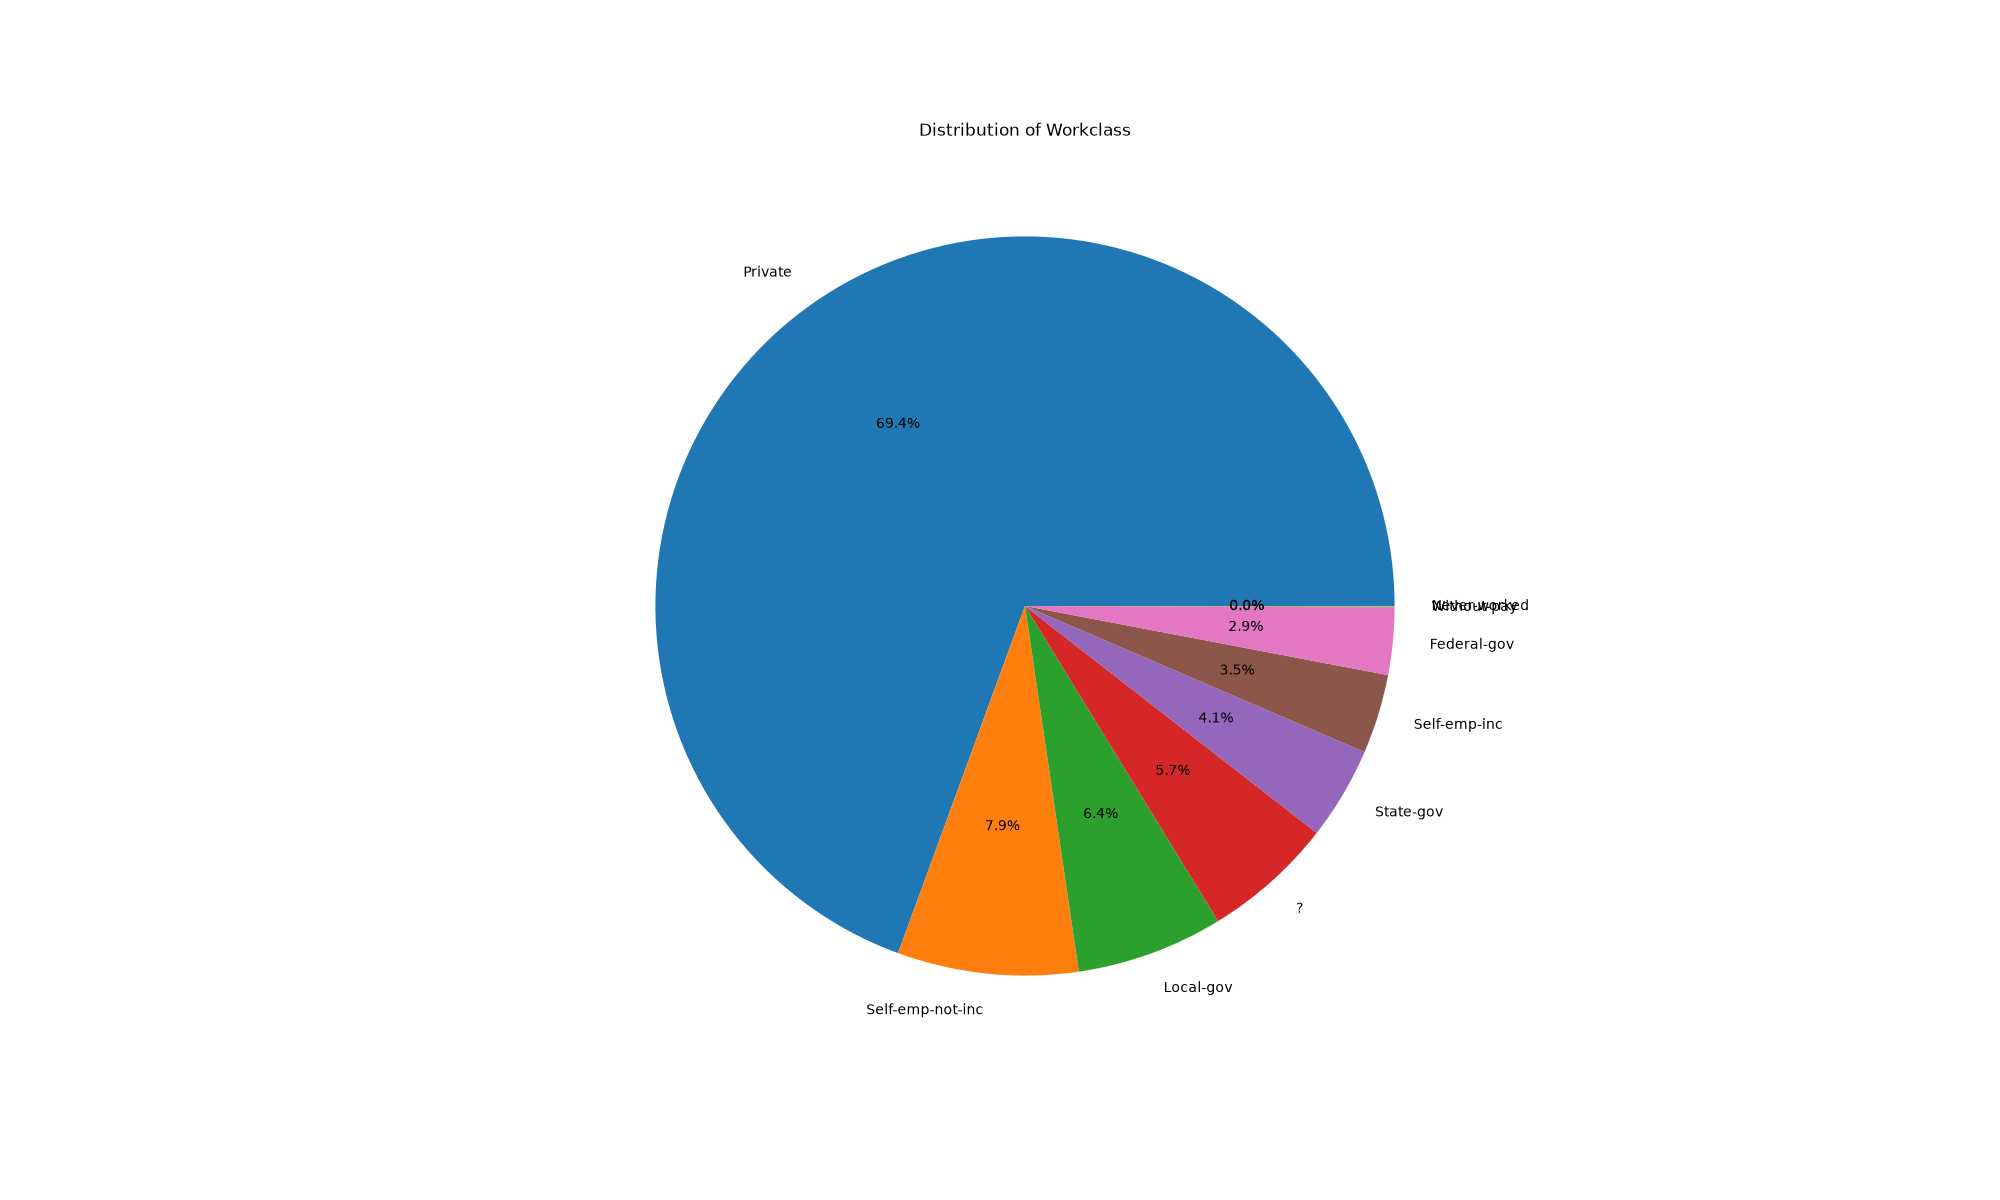
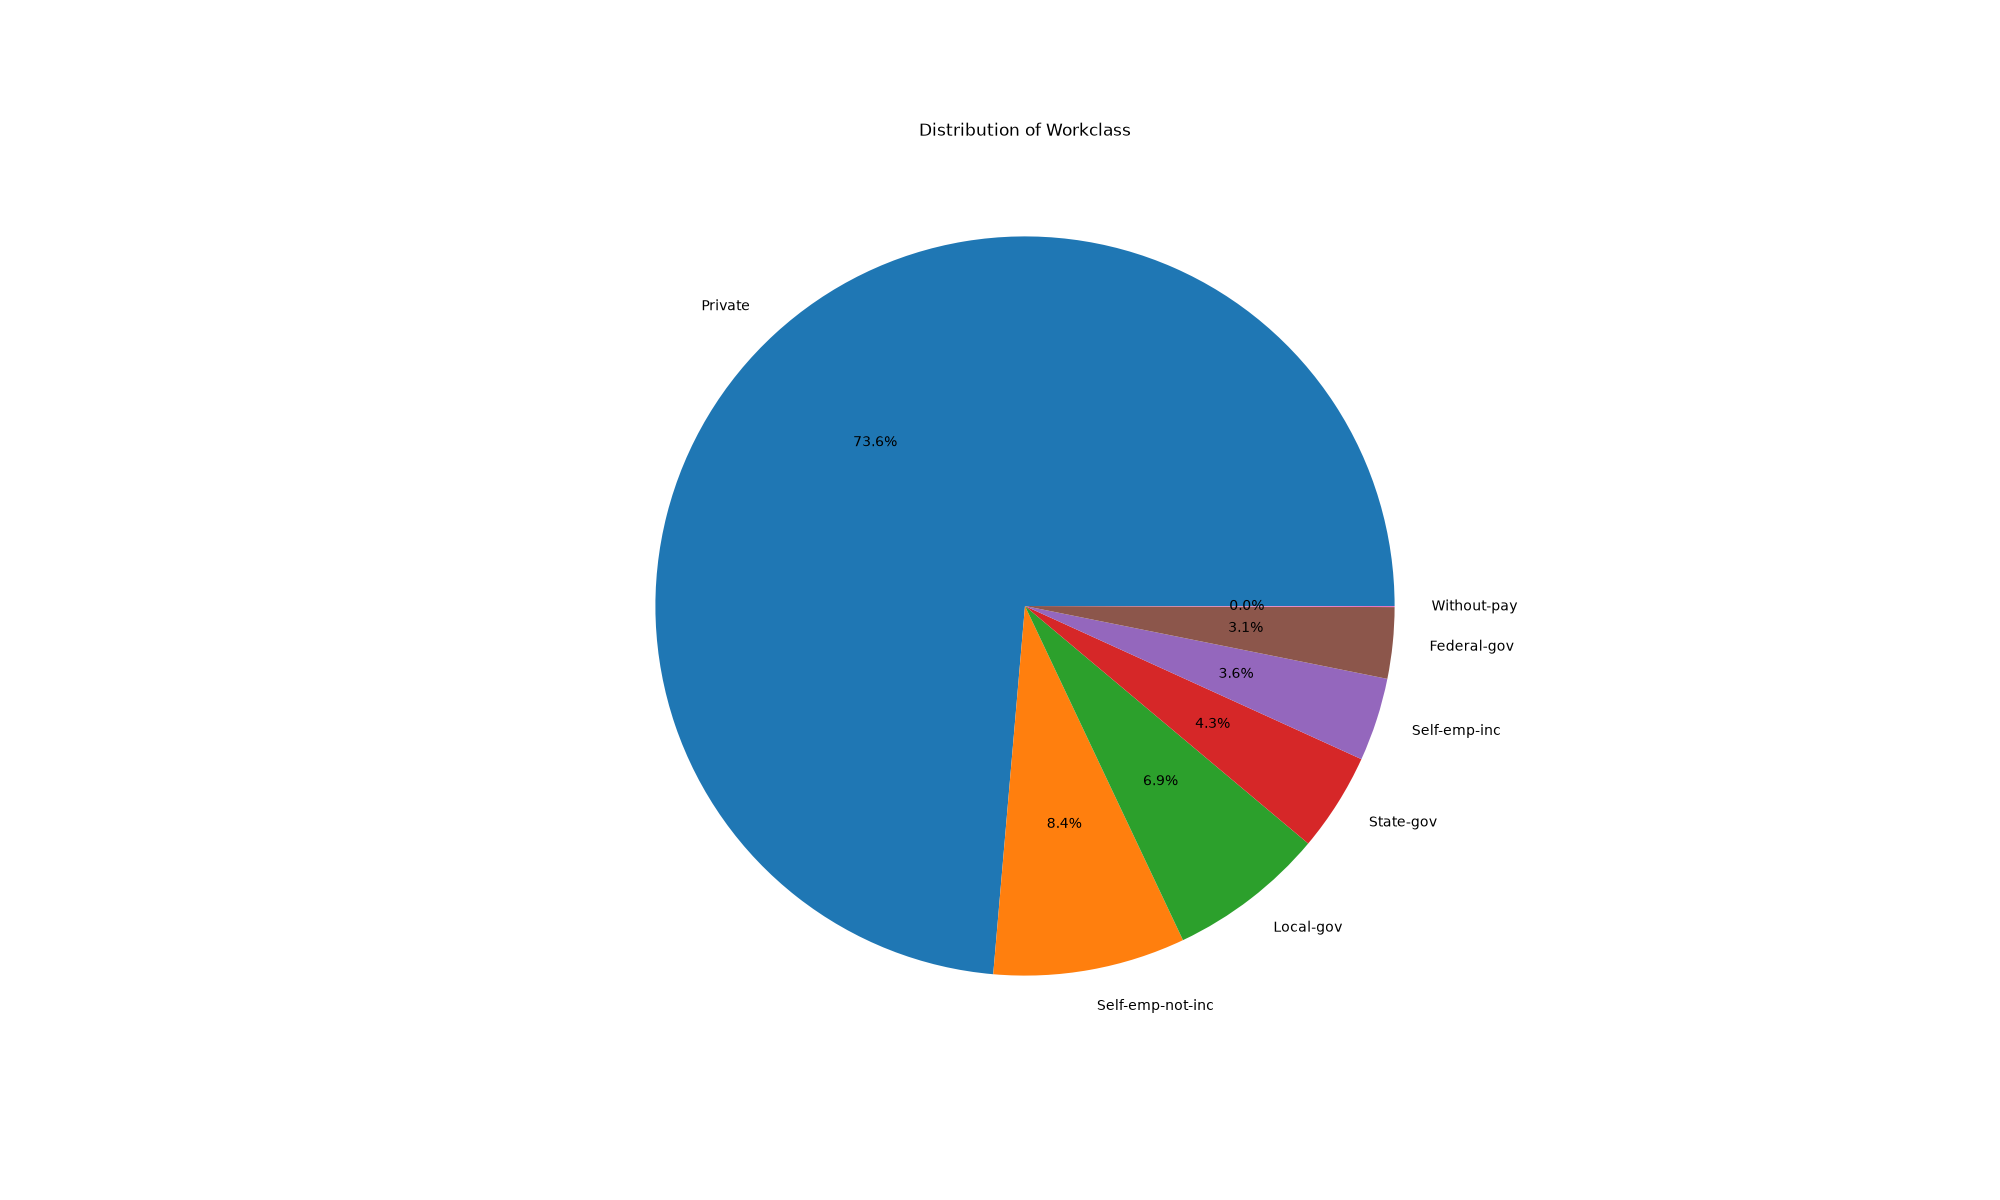
cleaning data

diff --git a/python scripts/adult.py b/python scripts/adult.py
@@ -1,7 +1,9 @@
 import pandas as pd
 import matplotlib.pyplot as plt
+import seaborn as sns
+import pandas as np
 #loading the data
-df=pd.read_csv(r'datasets\for adult\adult.csv')
+df=pd.read_csv(r'datasets\for adult\adult.csv',na_values='?')
 print(df.head(10))
 print(df.tail(10))
 
@@ -9,7 +11,7 @@ print(df.tail(10))
 print(df.shape)
 print(df.columns)
 print(df.info())
-print(df.isnull().sum())
+
 
 #descriptive satistics
 print(df.describe())
@@ -19,32 +21,30 @@ sample=df.sample(n=50)
 print(sample)
 
 #cleaning the data /removing nan vlaues
-df.isin(['?']).sum()
 
+missing=df.isin(['?']).sum()
+print(missing)
 
+#null values 
+print(df.isnull().sum())
+
+#contains so many   nan values so removing them 
+df.dropna(how='any',inplace=True)
+print(df.shape)
+
+#checking duplicate data and dropping them we get
+dup=df.duplicated().any()
+print('Are there any duplicated data?',dup)
+#removing duplicated data  
+df=df.drop_duplicates()
+print(df.shape)
 #making a piechart  of workclass
 workclass_counts = df['workclass'].value_counts()
 plt.figure(figsize=(20, 12))
 plt.pie(workclass_counts, labels=workclass_counts.index, autopct='%1.1f%%')
 plt.title('Distribution of Workclass')
 plt.savefig('images/adult visualizations/workclass_distribution.png')
+plt.tight_layout()
 plt.show()
 
-#making native country distributin by bar graph
-import matplotlib.pyplot as plt
 
-# Native country distribution
-native_country_counts = df['native.country'].value_counts()
-
-plt.figure(figsize=(20, 12))
-plt.bar(native_country_counts.index, native_country_counts.values)
-
-plt.title('Distribution of Native Country')
-plt.xlabel('Native Country')
-plt.ylabel('Count')
-
-plt.xticks(rotation=90)      # Rotate country names
-plt.tight_layout()           # Adjust layout
-
-plt.savefig('images/adult visualizations/native_country_distribution.png')
-plt.show()
